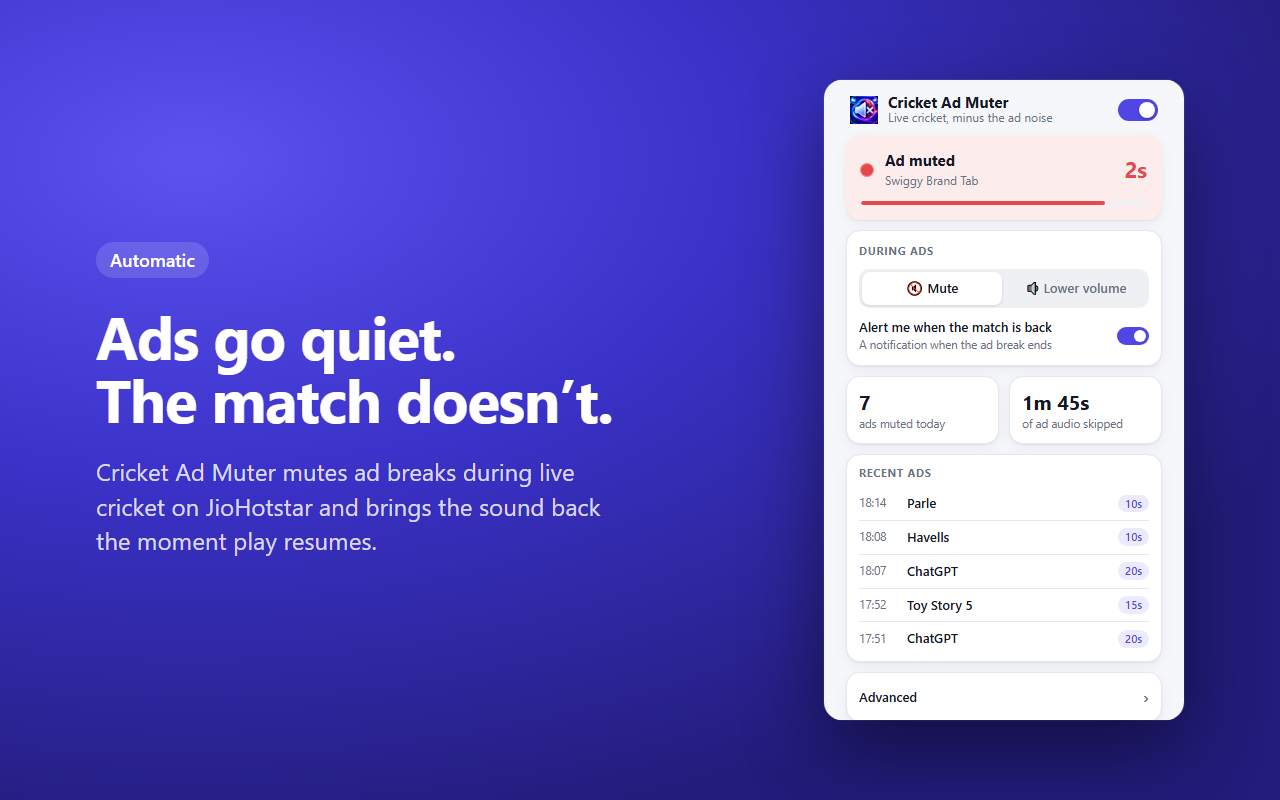
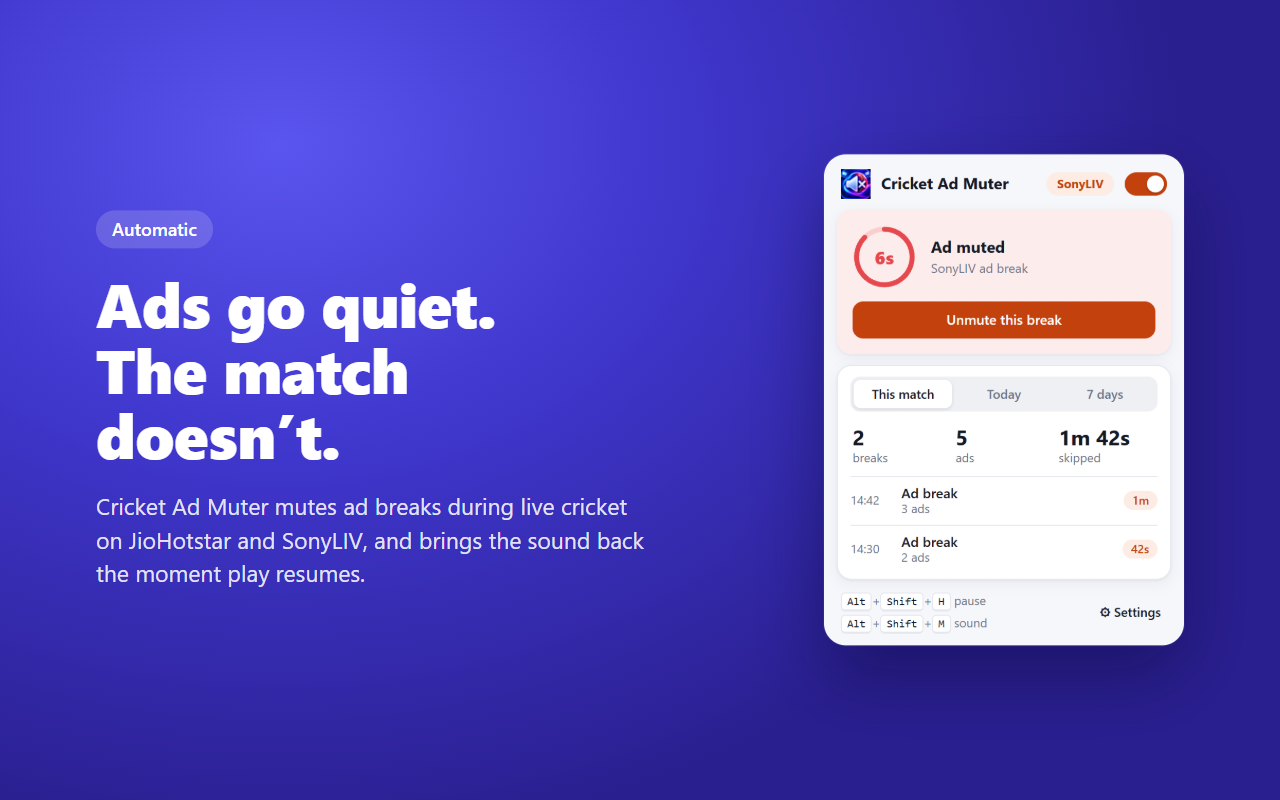
Add MIT license and 1.1 store screenshots
Screenshots show the 1.1 popup with made-up advertiser names; the player is an illustration.

diff --git a/store/LISTING.md b/store/LISTING.md
@@ -52,10 +52,10 @@ Cricket Ad Muter is an independent project and is not affiliated with, endorsed 
 
 **Small promo tile** (440×280): `store/promo-small-440x280.png`
 
-**Screenshots** (1280×800): upload in this order. These show the 1.0 popup and JioHotstar only; retake them for 1.1 (new popup, the badge on the video, SonyLIV).
-1. `store/1-ad-muted.png`
-2. `store/2-match-back.png`
-3. `store/3-settings.png`
+**Screenshots** (1280×800): upload in this order. They show the 1.1 popup with made-up advertiser names; the player in the second one is an illustration, not broadcast footage.
+1. `store/1-ad-muted.png`: an ad muted on SonyLIV, with the countdown and "Unmute this break"
+2. `store/2-badge-on-video.png`: the badge on the video
+3. `store/3-your-call.png`: JioHotstar, this match's ad breaks and "Mute now"
 
 **Icon**: `icons/icon-128.png`
 

diff --git a/README.md b/README.md
@@ -111,6 +111,10 @@ To build the zip: `powershell -ExecutionPolicy Bypass -File tools\package.ps1`. 
 
 To publish a release: bump `version` in `manifest.json`, build the zip, then on GitHub go to **Releases → Draft a new release**, create a tag like `v1.1.0`, and attach the zip.
 
+## License
+
+[MIT](LICENSE)
+
 ---
 
 Not affiliated with, endorsed by, or sponsored by JioStar, JioHotstar, Sony Pictures Networks India or SonyLIV. All trademarks belong to their owners.
